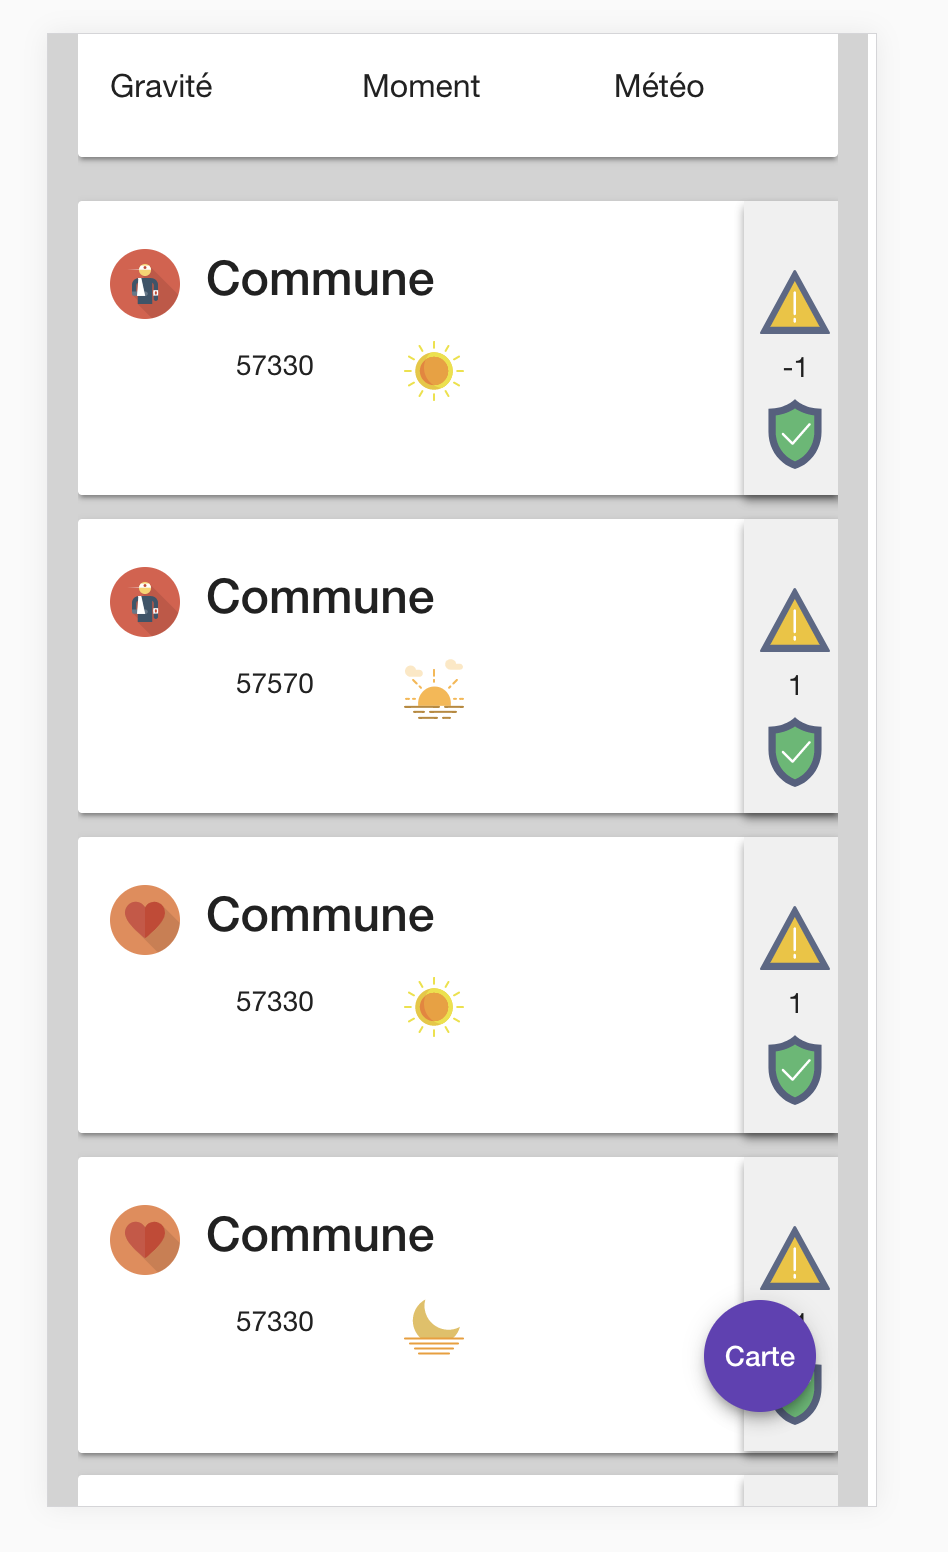
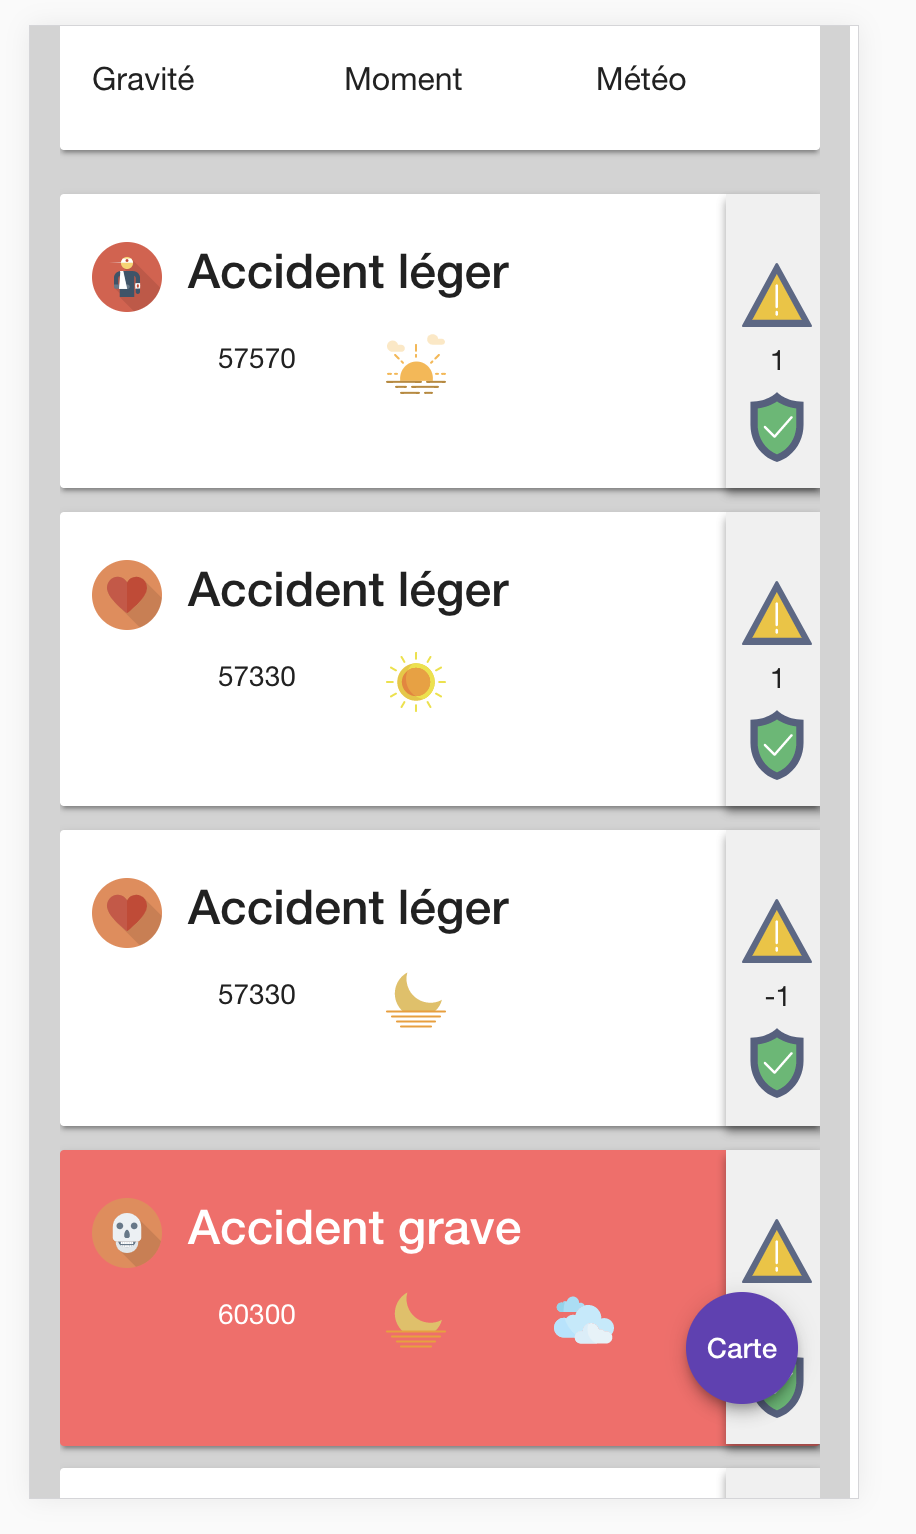
Client : list component css modification

diff --git a/client/src/app/list-page/list-page.component.ts b/client/src/app/list-page/list-page.component.ts
@@ -67,16 +67,38 @@ export class ListPageComponent implements OnInit {
         }
     }
 
-    atmToIcon(num: number) {
+    atmToIcon(num: number): string {
         return this.iconService.atmToIcon(num);
     }
 
-    lumToIcon(num: number) {
+    lumToIcon(num: number): string {
         return this.iconService.lumToIcon(num);
     }
 
-    gravToIcon(num: number) {
+    gravToIcon(num: number): string {
         return this.iconService.gravToIcon(num);
+    }
+
+    gravToText(num: number): string {
+        const myNum = '' + num;
+        switch (parseInt(myNum)) {
+            case 1: {
+                return 'Accident léger';
+            }
+            case 2: {
+                return 'Accident grave';
+            }
+            case 3 : {
+                return 'Accident léger';
+            }
+            case 4 : {
+                return 'Accident léger';
+            }
+            default: {
+                // return 'indéfini';
+                return '';
+            }
+        }
     }
 
 

diff --git a/client/src/app/list-page/list-page.component.html b/client/src/app/list-page/list-page.component.html
@@ -9,7 +9,8 @@
     </div>
   </mat-card>
 
-  <mat-card *ngFor="let accident of accidentsList">
+  <div *ngFor="let accident of accidentsList">
+  <mat-card  [ngClass]="{ 'danger':accident.gravite == '2' }">
     <mat-card-content>
       <div class="row">
 
@@ -20,7 +21,7 @@
 
         <div class="col-8">
           <div (click)="goToMap(accident.geojson.coordinates)" class="row">
-            <h4>Commune</h4>
+            <h4> {{ gravToText(accident.gravite) }} </h4>
           </div>
           <div class="row info">
             <p class="col-4" > {{ accident.com }}</p>
@@ -42,4 +43,5 @@
     </mat-card-content>
 
   </mat-card>
+  </div>
 </div>

diff --git a/client/src/app/list-page/list-page.component.scss b/client/src/app/list-page/list-page.component.scss
@@ -59,3 +59,8 @@ mat-card {
 .center-icon {
   padding-top: 20px;
 }
+
+.danger {
+  background-color:  #ff6666;
+  color: white;
+}
